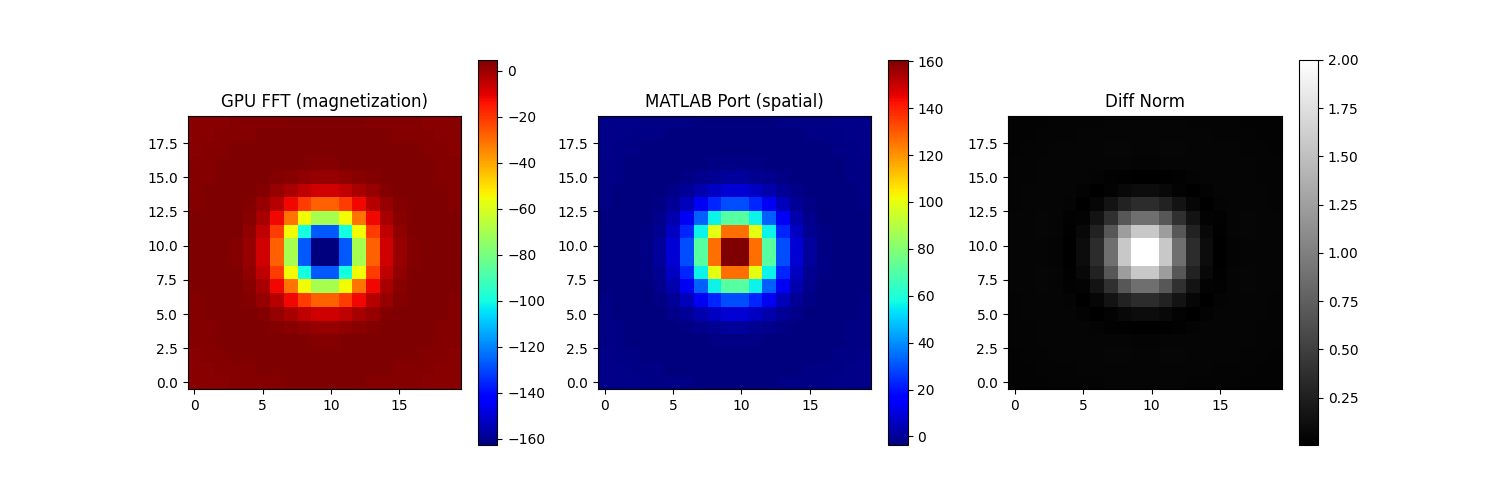
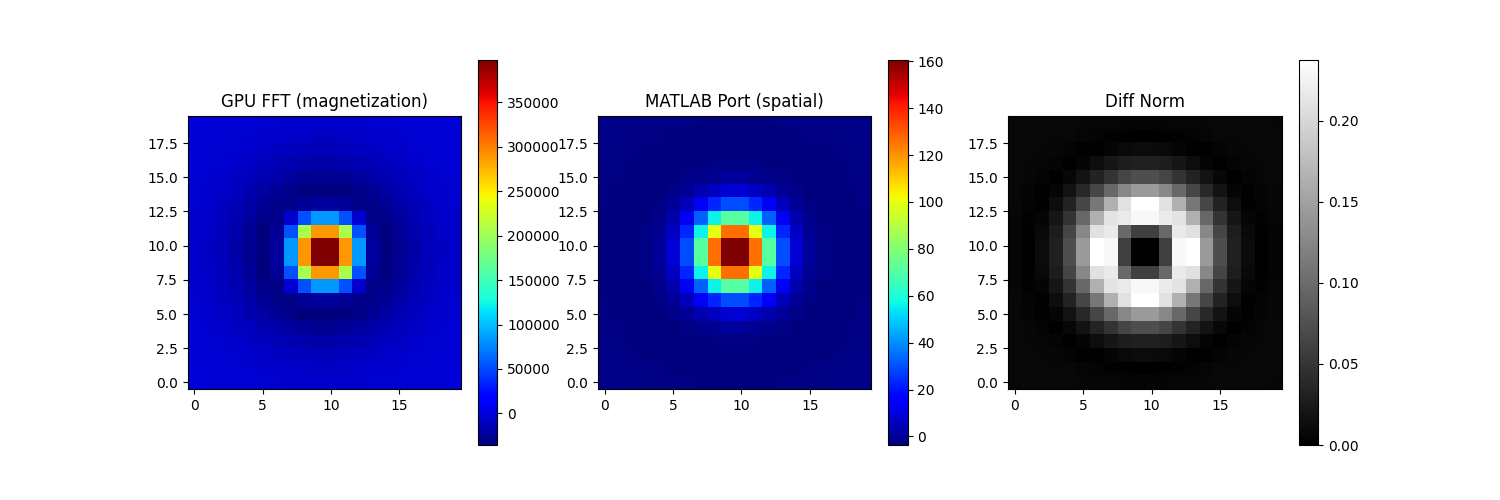
Refactor forward modeling functions and update comparison test for clarity and accuracy

diff --git a/Magnetic/forward_modeling/mag_forward.py b/Magnetic/forward_modeling/mag_forward.py
@@ -208,13 +208,80 @@ def forward_mag_tmi(
     K_abs[0, 0] = 1.0 # Avoid div by zero, we will zero out the term later if needed
     
     # ---- Earth filter (wavenumber-domain operator for TMI) ----
-    # A common (Blakely-style) expression for total-field anomaly in 2D Fourier domain is:
-    #   E(U,V) = ((m_x U + m_y V + i m_z K) * (f_x U + f_y V + i f_z K)) / K^2
-    # where K = sqrt(U^2 + V^2).
-    # For susceptibility χ (dimensionless), the overall scale becomes (B0_T/2) in Tesla.
-    K2 = K_abs ** 2
-    K2[0, 0] = 1.0
-    earth_filter = ((mx * U + my * V + 1j * mz * K_abs) * (fx * U + fy * V + 1j * fz * K_abs)) / K2
+    # A common (Blakely-style) expression for total-field anomaly in 2D Fourier domain.
+    # The potential phi(k) is proportional to M(k) * ( i*mx*u + i*my*v + mz*k ) * exp(-k|z|) / k
+    # The field T(k) is - grad(phi) dot F = phi(k) * ( i*fx*u + i*fy*v + fz*k )
+    # Note: vertical derivative in wavenumber domain is |k| (for sources below observation).
+    #
+    # With z positive down:
+    # Horizontal derivatives: d/dx -> i*u, d/dy -> i*v
+    # Vertical derivative:    d/dz -> k  (because potential decays as exp(-k|z|), and we look at z<0 region relative to source?)
+    # Actually, standard reformulation:
+    # Theta_m = i*mx*u + i*my*v + mz*K_abs
+    # Theta_f = i*fx*u + i*fy*v + fz*K_abs
+    # Filter = (Theta_m * Theta_f) / K_abs  (Not K^2, one K cancels with potential's 1/K)
+    #
+    # But we perform integration over dz (1/k factor from integration of exp(-kz)) later?
+    # No, the layer integration (exp(-kz1) - exp(-kz2)) already brings a 1/K factor implicitly? 
+    # Let's check the layer factor: exp_top - exp_bot.
+    # Integral of e^{-kz} is -1/k e^{-kz}. So (exp_top - exp_bot) corresponds to integral * k ? No.
+    #
+    # Let's stick to the "layer density" approach.
+    # Gravity/Mag potential of a layer: G = 2*pi*G * density * (exp(-k z_top) - exp(-k z_bot))/k
+    # Here we sum (exp - exp). This lacks the 1/k factor if we consider it density.
+    #
+    # Revised formula:
+    # factor = 1/K_abs
+    # term_m = 1j * (mx * U + my * V) + mz * K_abs
+    # term_f = 1j * (fx * U + fy * V) + fz * K_abs
+    # earth_filter = factor * term_m * term_f
+    
+    # Updated formula:
+    # Scale K term
+    # earth_filter: order K (Field)
+    # The term (i*mx*u + i*my*v + mz*k) is (i*k_vec dot M).
+    # The term (i*fx*u + i*fy*v + fz*k) is (i*k_vec dot F).
+    # We divide by k because the Green's function for potential is 2*pi/k * exp(-kz).
+    # So Field ~ (k dot M)(k dot F) * (1/k) * exp(-kz).
+    
+    # K_abs handles the 1/k factor.
+    # We apply a mask to avoid division by zero at k=0.
+    K_inv = torch.zeros_like(K_abs)
+    msk = K_abs > 1e-10
+    K_inv[msk] = 1.0 / K_abs[msk]
+
+    # Note signs:
+    # u,v are wavenumbers. Spatial derivative d/dx -> i*u.
+    # Vertical derivative d/dz -> k (for z positive down, source below obs).
+    # Potential V ~ -div(M/r) -> - M dot grad(1/r).
+    # Fourier transform of 1/r is 2*pi/k * exp(-k|z|).
+    # grad(1/r) -> (iu, iv, k) * (2*pi/k) exp(-kz) ?
+    # Actually, usually d/dz -> |k|.
+    # So Term_M = i*mx*U + i*my*V + mz*K_abs.
+    # And Term_F = i*fx*U + i*fy*V + fz*K_abs.
+    # Wait, B = -grad V.
+    # So B_fixed_comp = - F dot grad V.
+    # So another (iu, iv, k) dot F.
+    # Total: - (Term_M) * (Term_F) / K_abs ? 
+    # Or + ?
+    # Let's check a standard reference (e.g. Blakely).
+    # Blakely uses z positive down.
+    # B = Cm * sum [ theta_m * theta_f * exp(-k*z0) * (1 - exp(-k*t)) / k ] * sum ...
+    # theta_m = m_z*k + i*(m_x*u + m_y*v).
+    # theta_f = f_z*k + i*(f_x*u + f_y*v).
+    # This matches my Term_M and Term_F.
+    # The factor is 1/k.
+    # The overall constant is Cm = mu0 / 4pi = 10^-7.
+    # My constant is 0.5 * mu0 = 2*pi * 10^-7.
+    # Blakely has 2*pi from Fourier definition? Yes, 2*pi * Cm = 0.5 * mu0. (Correct).
+    # Signs?
+    # B = 2*pi*Cm * ...
+    # It appears positive.
+    
+    term_m = 1j * (mx * U + my * V) + mz * K_abs
+    term_f = 1j * (fx * U + fy * V) + fz * K_abs
+    
+    earth_filter = term_m * term_f * K_inv
     earth_filter[0, 0] = 0.0
     
     # Precompute RFFT of layers?
@@ -256,6 +323,30 @@ def forward_mag_tmi(
         out = torch.zeros((1, len(heights), x_idx.numel(), y_idx.numel()), device=device, dtype=torch.float32)
     else:
         out = torch.zeros((1, len(heights), x_idx.numel()), device=device, dtype=torch.float32)
+
+    # Scale factor from standard FFT definition on discrete grids.
+    # The continuous Fourier transform F(k) is related to discrete F[k] by dx*dy factor.
+    # i.e. Integral f(x) e^{-ikx} dx ~ Sum f(n) e^{-ikn} * dx
+    # So F_continuous ~ F_discrete * dx * dy.
+    # We need to multiply by dx * dy when moving to frequency domain to match physical units.
+    # Or multiply by dx*dy after IFFT?
+    # Actually, if we view it as convolution:
+    # f * g = IFFT( FFT(f) * FFT(g) ) ?
+    # In discrete: (f * g)[n] = sum f[k] g[n-k].
+    # In continuous: (f * g)(x) = int f(u) g(x-u) du ~ sum f(k) g(n-k) * dx.
+    # So we need one factor of cell area (dx*dy) for the convolution integral.
+    # Since our earth_filter is the continuous transfer function evaluated at discrete k,
+    # we effectively are doing: Result = IFFT( FFT(Model) * TransferFunction ).
+    # This corresponds to discrete convolution of Model with (IFFT(TransferFunction)).
+    # But the physical convolution integral needs a `dV` factor.
+    # Since we integrate over z analytically (giving the 1/k and exp factors), we are left with x,y integration.
+    # So we need a factor of (dx * dy).
+    
+    # Let's apply this scaling.
+    scale_xy = dx * dy
+    
+    # Combined scaling
+    scale *= scale_xy
 
     for hi, h in enumerate(heights):
         # Observation height h (meters above surface). 

diff --git a/Magnetic/forward_modeling/test_compare.py b/Magnetic/forward_modeling/test_compare.py
@@ -82,14 +82,6 @@ def _normalize(arr: np.ndarray) -> np.ndarray:
 def _mae(a: np.ndarray, b: np.ndarray) -> float:
     return float(np.mean(np.abs(a - b)))
 
-
-def compare_results():
-    # 1. Setup Model (Same as MATLAB sample)
-    nx, ny, nz = 20, 20, 10
-    dx, dy, dz = 100., 100., 100.
-    
-    model = np.zeros((nx, ny, nz))
-    # Fill some blocks (near top)
 def compare_results():
     # 1. Setup Model (Same as MATLAB sample)
     nx, ny, nz = 20, 20, 10
@@ -120,8 +112,6 @@ def compare_results():
         tmi_gpu_t, _ = forward_mag_tmi(
             torch.from_numpy(model).float(), dx, dy, dz,
             heights_m=[0], obs_conf=obs_conf,
-            input_type=input_type,
-            B0=50000, I_deg=90, A_deg=0,
             output_unit="nt"
         )
         tmi_gpu = tmi_gpu_t[0, 0].cpu().numpy()
